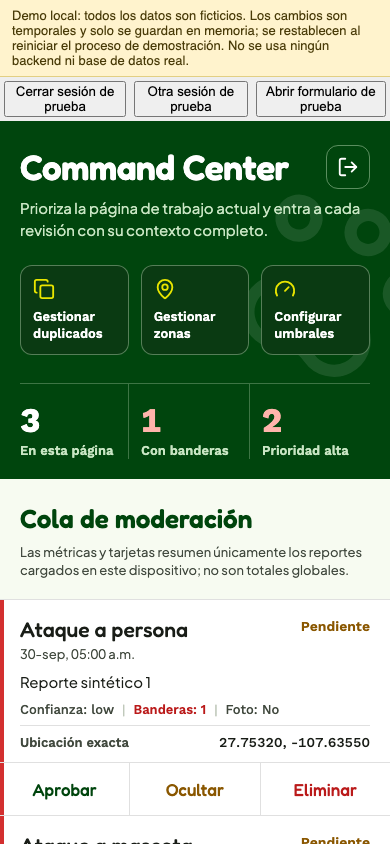
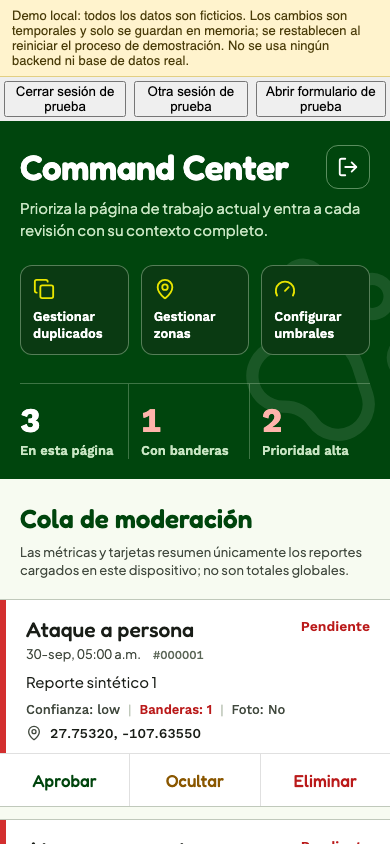
style(design): TD-134 Command Center: reportes como tiras separadas con barra de estado y número corto
Cada reporte es una tira a todo el ancho con líneas y hueco entre una y otra, barra lateral por estado, número corto del reporte y menos líneas (ubicación en una sola línea con ícono). Reglas 29 y 30 en TASTE.md.

diff --git a/screens/CommandCenterScreen.js b/screens/CommandCenterScreen.js
@@ -78,18 +78,21 @@ function ReportCard({ report, busy, onApprove, onHide, onRestore, onDelete, t })
     can('restore') && { key: 'restore', label: t('moderation.restore'), color: colors.primary, onPress: () => onRestore(report) },
     can('delete') && { key: 'delete', label: t('moderation.delete'), color: colors.danger, onPress: () => onDelete(report) },
   ].filter(Boolean);
+  const severe = report.isHighSeverity || report.flagCount > 0;
   return (
     <View style={styles.item}>
-      <View style={[styles.stripe, report.isHighSeverity && styles.stripeSevere]} />
+      <View style={[styles.stripe, severe && styles.stripeSevere, hidden && styles.stripeHidden]} />
       <View style={styles.itemBody}>
         <View style={styles.itemTop}>
           <View style={styles.itemTitleBlock}>
             <Text style={styles.incident}>{incident}</Text>
-            <Text style={styles.timestamp}>{formatObservedAt(report.client_created_at)}</Text>
+            <View style={styles.timeRow}>
+              <Text style={styles.timestamp}>{formatObservedAt(report.client_created_at)}</Text>
+              <Text style={styles.reportNumber}>#{String(report.id).slice(-6)}</Text>
+            </View>
           </View>
-          <Text style={[styles.status, hidden && styles.statusHidden]}>{t(`moderation.status.${report.status}`)}</Text>
+          <Text style={[styles.status, severe && styles.statusSevere, hidden && styles.statusHidden]}>{t(`moderation.status.${report.status}`)}</Text>
         </View>
-
         {report.description ? <Text style={styles.description}>{report.description}</Text> : null}
         <View style={styles.meta}>
           <Text style={styles.metaText}>{t('moderation.trust')}: {report.trust?.tier ?? '-'}</Text>
@@ -98,8 +101,8 @@ function ReportCard({ report, busy, onApprove, onHide, onRestore, onDelete, t })
           <Text style={styles.metaBar}>|</Text>
           <Text style={styles.metaText}>{`${t('moderation.photo')}: ${report.photo_available ? t('common.yes') : t('common.no')}`}</Text>
         </View>
-        <View style={styles.place}>
-          <Text style={styles.placeLabel}>{t('moderation.exactLocation')}</Text>
+        <View style={styles.place} accessible accessibilityLabel={`${t('moderation.exactLocation')}: ${report.location.latitude.toFixed(5)}, ${report.location.longitude.toFixed(5)}`}>
+          <Icon name="map" size={16} color={colors.inkMuted} />
           <Text style={styles.coordinates}>{report.location.latitude.toFixed(5)}, {report.location.longitude.toFixed(5)}</Text>
         </View>
         {suspicious ? <Text style={styles.warningText}>{t('moderation.suspiciousSignals')}</Text> : null}
@@ -291,26 +294,27 @@ const styles = StyleSheet.create({
   queueIntro: { marginHorizontal: layout.margin, marginTop: spacing.xxl, marginBottom: spacing.xl, gap: spacing.sm },
   queueTitle: { fontFamily: fontFamily.display, fontSize: 26, lineHeight: 32, color: colors.primary },
   pageScope: { ...type.caption, color: colors.inkMuted },
-  gridRow: { gap: 1 },
+  gridRow: { gap: spacing.md },
   gridItem: { flex: 1, maxWidth: '50%' },
-  item: { backgroundColor: colors.surface, borderTopWidth: 1, borderTopColor: colors.border },
-  stripe: { position: 'absolute', left: 0, top: 0, bottom: 0, width: 4, backgroundColor: colors.outlineSoft },
-  stripeSevere: { backgroundColor: colors.dangerAlert },
-  itemBody: { paddingHorizontal: layout.margin, paddingTop: spacing.lg, paddingBottom: spacing.md, gap: spacing.sm },
+  item: { backgroundColor: colors.surface, borderTopWidth: 1, borderBottomWidth: 1, borderColor: colors.outlineSoft, marginBottom: spacing.md },
+  stripe: { position: 'absolute', left: 0, top: 0, bottom: 0, width: 6, backgroundColor: colors.primary },
+  stripeSevere: { backgroundColor: colors.dangerAlert }, stripeHidden: { backgroundColor: colors.outline },
+  itemBody: { paddingLeft: layout.margin + 6, paddingRight: layout.margin, paddingTop: spacing.lg, paddingBottom: spacing.md, gap: spacing.sm },
   itemTop: { flexDirection: 'row', alignItems: 'flex-start', gap: spacing.md },
   itemTitleBlock: { flex: 1, gap: 2 },
   incident: { fontFamily: fontFamily.displayMedium, fontSize: 21, lineHeight: 27, color: colors.ink },
+  timeRow: { flexDirection: 'row', alignItems: 'baseline', gap: spacing.md },
   timestamp: { ...type.caption, color: colors.inkMuted, fontVariant: ['tabular-nums'] },
-  status: { fontFamily: fontFamily.label, fontSize: 14, color: colors.warning, marginTop: 2 }, statusHidden: { color: colors.danger },
+  reportNumber: { fontFamily: fontFamily.labelMedium, fontVariant: ['tabular-nums'], fontSize: 12, color: colors.inkSubtle },
+  status: { fontFamily: fontFamily.label, fontSize: 14, color: colors.primary, marginTop: 2 }, statusSevere: { color: colors.danger }, statusHidden: { color: colors.inkMuted },
   description: { ...type.body, fontSize: 15, lineHeight: 22, color: colors.ink },
   meta: { flexDirection: 'row', flexWrap: 'wrap', alignItems: 'center', gap: spacing.sm },
   metaText: { fontFamily: fontFamily.labelMedium, fontSize: 13, color: colors.inkMuted }, metaHot: { fontFamily: fontFamily.label, color: colors.danger },
   metaBar: { fontSize: 13, color: colors.outlineSoft },
-  place: { flexDirection: 'row', alignItems: 'baseline', justifyContent: 'space-between', gap: spacing.md, borderTopWidth: 1, borderTopColor: colors.border, paddingTop: spacing.sm },
-  placeLabel: { fontFamily: fontFamily.label, fontSize: 13, color: colors.inkMuted },
+  place: { flexDirection: 'row', alignItems: 'center', gap: spacing.sm },
   coordinates: { fontFamily: fontFamily.labelMedium, fontVariant: ['tabular-nums'], fontSize: 14, color: colors.ink },
   warningText: { ...type.caption, fontSize: 13, color: colors.danger },
-  actionBar: { flexDirection: 'row', borderTopWidth: 1, borderTopColor: colors.border },
+  actionBar: { flexDirection: 'row', borderTopWidth: 1, borderTopColor: colors.border, backgroundColor: colors.surface },
   actionCell: { flex: 1, minHeight: 52, alignItems: 'center', justifyContent: 'center' }, actionDivider: { borderLeftWidth: 1, borderLeftColor: colors.border },
   actionText: { fontFamily: fontFamily.displayMedium, fontSize: 17 },
   pressed: { opacity: 0.78 }, disabled: { opacity: 0.42 },

diff --git a/docs/redesign/capture/after-command.spec.js b/docs/redesign/capture/after-command.spec.js
@@ -11,7 +11,8 @@ for (const [lang, locale] of [['es', 'es-MX'], ['en', 'en-US']]) {
       await page.goto('/?command-center&tools');
       await page.waitForTimeout(600);
       await page.screenshot({ path: `docs/redesign/after/web/${lang}_command_start.png` });
-      await page.getByText('Reporte sintético 1', { exact: true }).scrollIntoViewIfNeeded().catch(() => {});
+      await page.getByText('Cola de moderación', { exact: true }).scrollIntoViewIfNeeded().catch(() => {});
+      await page.evaluate(() => { const el = [...document.querySelectorAll('div')].find((d) => d.scrollHeight > d.clientHeight + 50 && getComputedStyle(d).overflowY !== 'visible'); if (el) el.scrollTop = 420; });
       await page.waitForTimeout(200);
       await page.screenshot({ path: `docs/redesign/after/web/${lang}_command_queue.png` });
       if (lang === 'es') {

diff --git a/docs/redesign/TASTE.md b/docs/redesign/TASTE.md
@@ -109,6 +109,16 @@ Segundo intento: **una bandeja, no tarjetas.**
 27. **Las acciones por fila van como barra plana con texto de color,** no como botones con marco.
 28. **Las acciones globales (cerrar sesión) viven en la barra del título,** no flotando solas.
 
+### Command Center, tercera vuelta: cómo separar elementos sin tarjetas
+
+- Filas a todo el ancho **pegadas** se funden en un solo bloque ("parece que todo es uno").
+- **Tarjeta redondeada con banda de color arriba** se rechazó como plantilla genérica ("ai-slop").
+- Lo que funciona: **tira a todo el ancho con líneas arriba y abajo y un hueco de fondo claro entre una y otra, sin esquinas redondeadas**, con **barra lateral gruesa** de color por estado y **número corto del reporte** (`#a1b2c3`) para que cada uno tenga nombre.
+- Y **menos contenido por elemento:** se quitó la fila con etiqueta de ubicación y quedó una línea con ícono.
+
+29. **Separar elementos de una lista con huecos de fondo y bordes finos, no con color de cabecera ni esquinas redondeadas.**
+30. **Todo elemento repetido lleva un identificador corto visible** (número, nombre), no solo posición.
+
 ## Cómo se trabaja con las skills
 
 `frontend-design` ayudó más que el resto: obliga a planear con una paleta, roles de tipografía y un wireframe, a revisar el plan contra los defaults de plantilla y a gastar el riesgo estético en un solo lugar. `design-taste-frontend` sirve como lista de verificación (contraste, estados, etiquetas arriba del campo). `mobile-redesign-screen` da el método (auditar, proponer, arreglar). Para cada pantalla nueva: invocar `frontend-design` primero para el plan.
